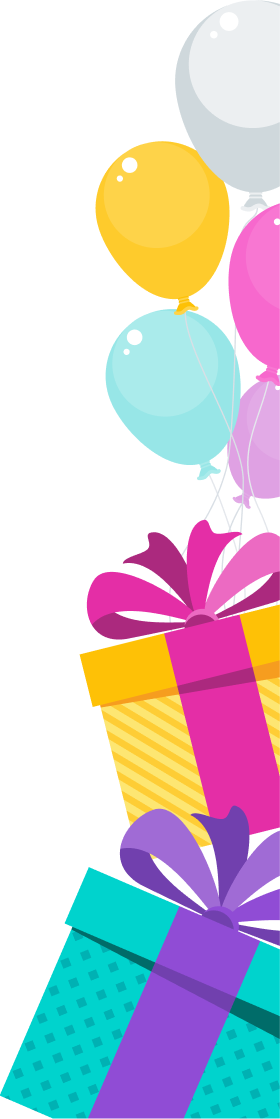
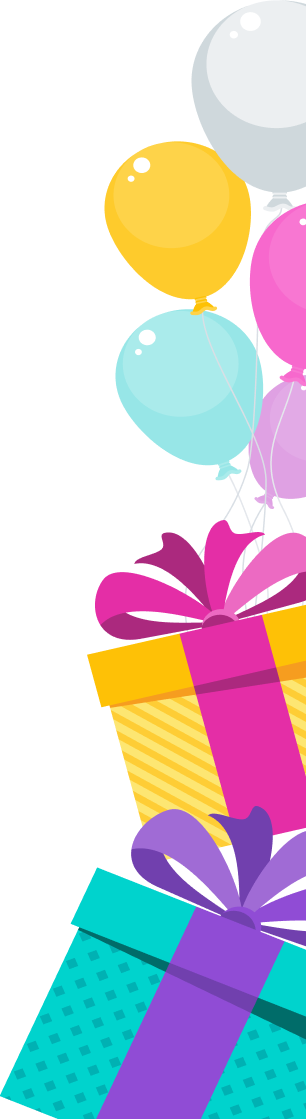
changes on text animation

diff --git a/index.html b/index.html
@@ -89,7 +89,7 @@
             position: absolute;
             z-index: 2;
             bottom: 0;
-            width: 26vw;
+            width: calc(100% - 73%);
         }
 
         .frame .gift-frame.img-left {
@@ -296,9 +296,9 @@
             background: none;
             box-shadow: none;
             display: flex;
-            align-items: center;
-            justify-content: center;
-            padding: 22px 18px;
+            /* align-items: center;
+            justify-content: center; */
+            padding: 22px 22px;
             overflow: visible;
         }
 
@@ -373,7 +373,6 @@
             }
         }
 
-        /* the "pen" that writes the wish — a feather quill, matching the reference clip */
         .spark {
             position: absolute;
             top: 50%;
@@ -438,10 +437,6 @@
                 border-radius: 26px;
                 border: 1px solid rgba(255, 255, 255, 0.08);
             }
-
-            .frame .gift-frame {
-                width: 7vw;
-            }
         }
     </style>
 </head>
@@ -464,7 +459,7 @@
         <img src="./images/gift-frame-right.png" class="gift-frame img-right" alt="">
 
         <div class="content">
-            <h1 class="headline" id="headline" aria-label="Happy Birthday"></h1>
+            <!-- <h1 class="headline" id="headline" aria-label="Happy Birthday"></h1> -->
             <div class="divider" id="divider"></div>
 
             <div class="wish-panel" id="wishPanel">
@@ -507,30 +502,39 @@
         function fadeReveal(
             container,
             text,
-            { startDelay = 0, letterDelay = 0.07, wordClassMap = {} } = {}
+            {
+                startDelay = 0,
+                letterDelay = 0.07,
+                wordClassMap = {}
+            } = {}
         ) {
+            if (!container) {
+                return startDelay;
+            }
+
             container.innerHTML = '';
 
             const words = text.split(' ');
             let elapsed = startDelay;
 
             words.forEach((word, wIndex) => {
-
-                // Create word wrapper
                 const wordWrap = document.createElement('span');
                 wordWrap.className = 'word';
 
-                const wordClass = wordClassMap[word.toLowerCase()] || '';
+                const wordClass =
+                    wordClassMap[word.toLowerCase()] || '';
 
                 [...word].forEach(ch => {
-
                     const span = document.createElement('span');
 
                     span.className =
-                        'letter' + (wordClass ? ' ' + wordClass : '');
+                        'letter' +
+                        (wordClass ? ' ' + wordClass : '');
 
                     span.textContent = ch;
-                    span.style.animationDelay = elapsed.toFixed(3) + 's';
+
+                    span.style.animationDelay =
+                        elapsed.toFixed(3) + 's';
 
                     wordWrap.appendChild(span);
 
@@ -539,9 +543,7 @@
 
                 container.appendChild(wordWrap);
 
-                // Add space between words
                 if (wIndex < words.length - 1) {
-
                     const gap = document.createElement('span');
 
                     gap.className = 'word-gap';
@@ -562,9 +564,20 @@
             textEl,
             sparkEl,
             text,
-            { startDelay = 0, charDelay = 70 } = {}
+            {
+                startDelay = 0,
+                charDelay = 70
+            } = {}
         ) {
+            if (!panel || !textEl || !sparkEl) {
+                return;
+            }
+
             textEl.innerHTML = '';
+
+            sparkEl.classList.remove('d-none');
+            sparkEl.classList.remove('writing');
+            sparkEl.style.opacity = '0';
 
             const words = text.split(' ');
 
@@ -573,93 +586,85 @@
             let currentWord = null;
 
 
-            function positionSparkOn(span, isSpace = false) {
+            function positionSparkOn(span) {
+                if (!span || !panel || !sparkEl) {
+                    return;
+                }
 
-                const panelRect = panel.getBoundingClientRect();
-                const charRect = span.getBoundingClientRect();
+                const panelRect =
+                    panel.getBoundingClientRect();
 
-                // Keep the quill tip close to the baseline of the character.
+                const charRect =
+                    span.getBoundingClientRect();
+
                 const targetLeft =
-                    charRect.right - panelRect.left - 4;
+                    charRect.right -
+                    panelRect.left -
+                    4;
 
                 const targetTop =
-                    charRect.bottom - panelRect.top - 43;
+                    charRect.bottom -
+                    panelRect.top -
+                    43;
 
-                sparkEl.style.left = targetLeft + 'px';
-                sparkEl.style.top = targetTop + 'px';
+                sparkEl.style.left =
+                    targetLeft + 'px';
+
+                sparkEl.style.top =
+                    targetTop + 'px';
+
                 sparkEl.style.opacity = '1';
 
+                sparkEl.classList.add('writing');
+            }
 
-                // During spaces, make the quill glide naturally
-                // instead of looking like it is pressing down to write.
-                if (isSpace) {
-                    sparkEl.classList.remove('writing');
-                } else {
-                    sparkEl.classList.add('writing');
-                }
+
+            function finishWriting() {
+                sparkEl.classList.remove('writing');
+
+                setTimeout(() => {
+                    sparkEl.style.opacity = '0';
+
+                    setTimeout(() => {
+                        sparkEl.classList.add('d-none');
+                    }, 650);
+                }, 300);
             }
 
 
             function step() {
-
-                // Writing completed
                 if (wordIndex >= words.length) {
-
-                    sparkEl.classList.remove('writing');
-
-                    // Let the quill settle and fade away.
-                    setTimeout(() => {
-
-                        sparkEl.style.opacity = '0';
-
-                        setTimeout(() => {
-                            sparkEl.classList.add('d-none');
-                        }, 650);
-
-                    }, 300);
-
+                    finishWriting();
                     return;
                 }
 
-
                 const word = words[wordIndex];
 
-
-                // Create .word wrapper at the beginning of every word.
                 if (charIndex === 0) {
-
-                    currentWord = document.createElement('span');
+                    currentWord =
+                        document.createElement('span');
 
                     currentWord.className = 'word';
 
                     textEl.appendChild(currentWord);
                 }
 
+                const ch =
+                    word.charAt(charIndex);
 
-                // Current character
-                const ch = word.charAt(charIndex);
-
-
-                // Create .letter wrapper
-                const span = document.createElement('span');
+                const span =
+                    document.createElement('span');
 
                 span.className = 'letter';
-
                 span.textContent = ch;
 
-
-                // Add letter inside current .word
                 currentWord.appendChild(span);
 
-                // Move quill to the current letter
                 positionSparkOn(span);
 
                 charIndex++;
 
-                // Current word completed
                 if (charIndex >= word.length) {
-
-                    // Move to next word
                     wordIndex++;
                     charIndex = 0;
 
@@ -681,20 +686,30 @@
             setTimeout(step, startDelay);
         }
 
-        const bookPage = document.getElementById('bookPage');
-        const headline = document.getElementById('headline');
-        const divider = document.getElementById('divider');
-        const wishPanel = document.getElementById('wishPanel');
-        const wish = document.getElementById('wish');
-        const spark = document.getElementById('spark');
+
+        const bookPage =
+            document.getElementById('bookPage');
+
+        const headline =
+            document.getElementById('headline');
+
+        const divider =
+            document.getElementById('divider');
+
+        const wishPanel =
+            document.getElementById('wishPanel');
+
+        const wish =
+            document.getElementById('wish');
+
+        const spark =
+            document.getElementById('spark');
 
 
         const PAGE_DELAY_MS = 500;
 
-        // Page turn duration
         const PAGE_DURATION_MS = 1000;
 
-        // Small settle buffer
         const PAGE_TOTAL_MS =
             PAGE_DELAY_MS +
             PAGE_DURATION_MS +
@@ -702,40 +717,57 @@
 
 
         function startInsideContent() {
-            const headlineDuration = fadeReveal(
-                headline,
-                'Happy Birthday',
-                {
-                    startDelay: 0.1,
-                    letterDelay: 0.07,
-                    wordClassMap: {
-                        birthday: 'word-birthday'
-                    }
-                }
-            );
-            divider.style.animationDelay =
-                (headlineDuration + 0.2) + 's';
 
-            inkWriter(
-                wishPanel,
-                wish,
-                spark,
-                'Wishing you a day as bright and wonderful as you are. May this new year of your life bring endless laughter, good health, and dreams that come true.',
-                {
-                    startDelay: (headlineDuration + 0.6) * 1000,
-                    charDelay: 70
-                }
-            );
+            if (headline) {
+                fadeReveal(
+                    headline,
+                    'Happy Birthday',
+                    {
+                        startDelay: 0.1,
+                        letterDelay: 0.07,
+                        wordClassMap: {
+                            birthday: 'word-birthday'
+                        }
+                    }
+                );
+            }
+
+            if (divider) {
+                divider.style.animationDelay = '1.2s';
+            }
+
+            if (wishPanel && wish && spark) {
+                inkWriter(
+                    wishPanel,
+                    wish,
+                    spark,
+                    'Wishing you a day as bright and wonderful as you are. May this new year of your life bring endless laughter, good health, and dreams that come true.',
+                    {
+                        startDelay: 500,
+                        charDelay: 70
+                    }
+                );
+            }
         }
 
-        setTimeout(() => {
 
-            bookPage.classList.add('done');
+        function startBirthdayAnimation() {
+            if (bookPage) {
+                bookPage.classList.add('done');
+            }
 
             startInsideContent();
+        }
 
-        }, PAGE_TOTAL_MS);
 
+        if (bookPage) {
+            setTimeout(
+                startBirthdayAnimation,
+                PAGE_TOTAL_MS
+            );
+        } else {
+            startBirthdayAnimation();
+        }
     </script>
 
 
